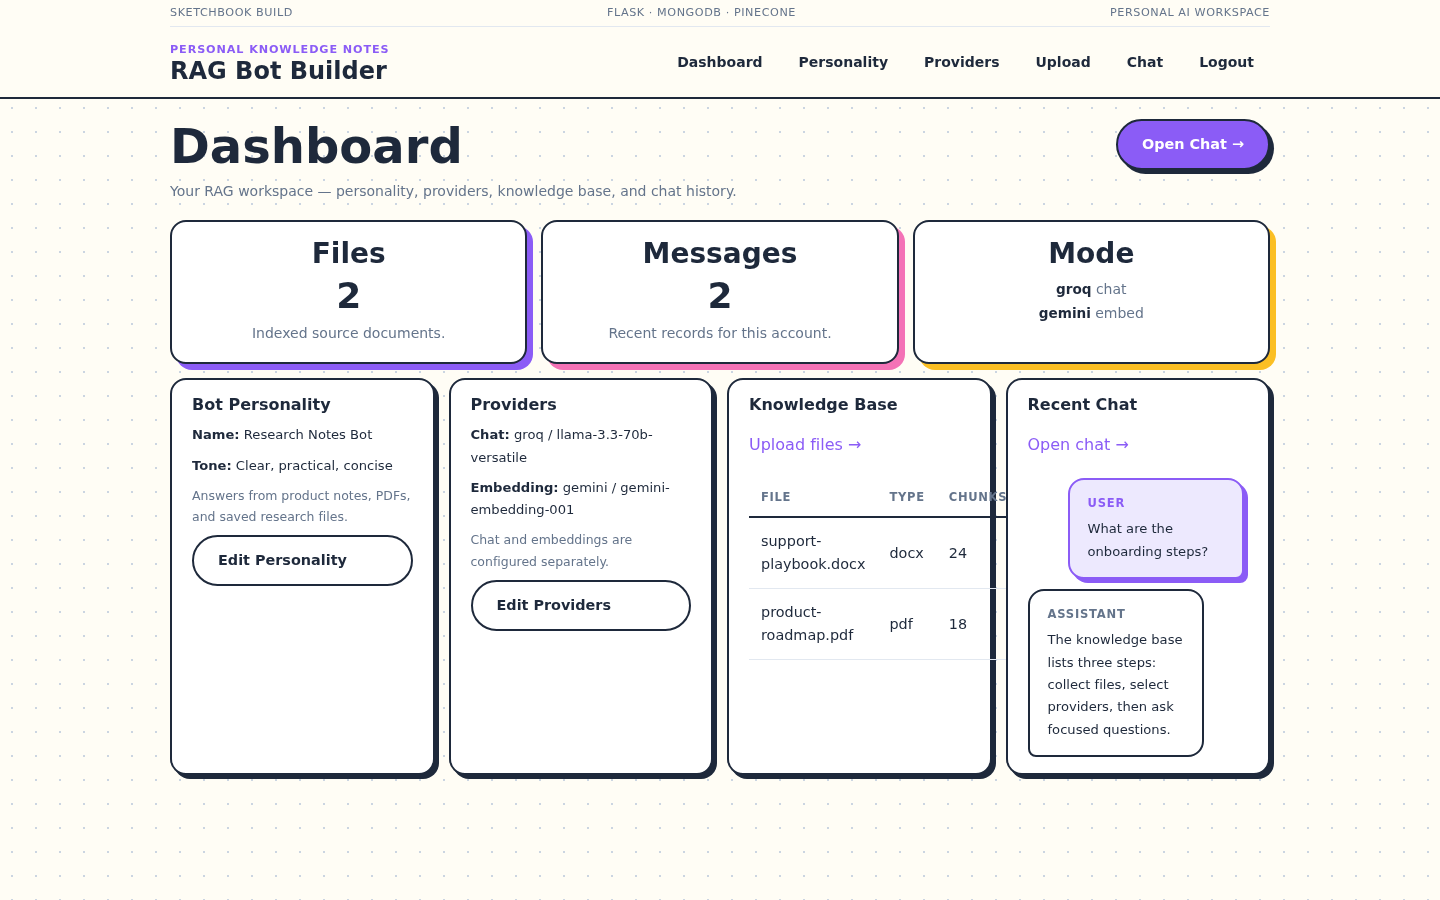
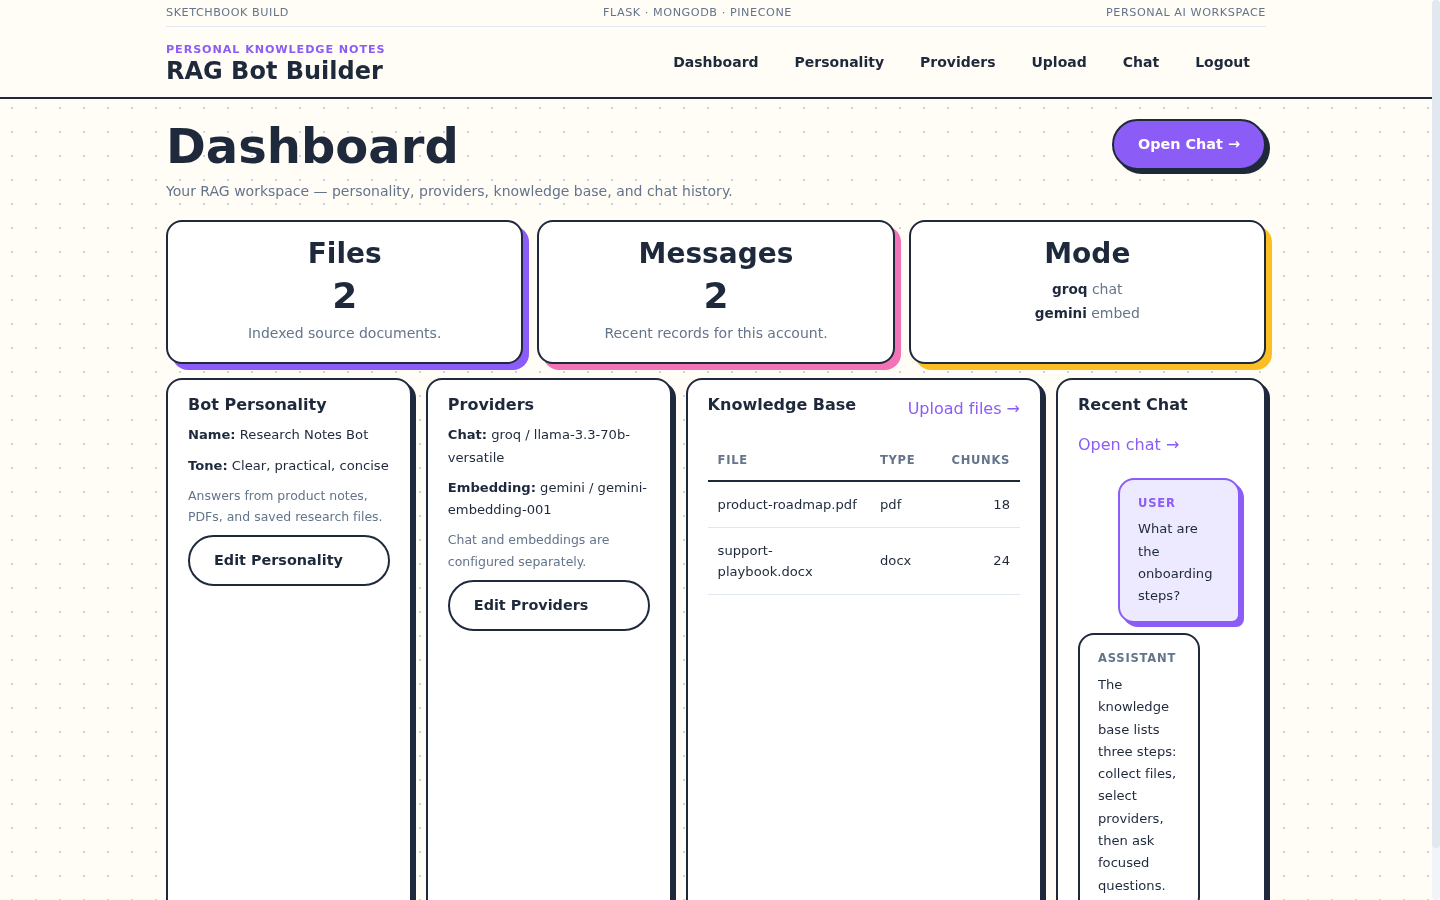
Fix dashboard knowledge base width

diff --git a/static/style.css b/static/style.css
@@ -483,7 +483,11 @@ tr:hover td { background: var(--muted-bg); }
 
 .dashboard-details {
   display: grid;
-  grid-template-columns: repeat(4, 1fr);
+  grid-template-columns:
+    minmax(220px, 1fr)
+    minmax(230px, 1fr)
+    minmax(340px, 1.45fr)
+    minmax(210px, 0.8fr);
   gap: 14px;
 }
 
@@ -499,8 +503,36 @@ tr:hover td { background: var(--muted-bg); }
 .detail-card p  { font-size: 0.82rem; }
 .detail-card .muted { font-size: 0.78rem; }
 
+.knowledge-card table {
+  table-layout: fixed;
+  font-size: 0.82rem;
+}
+
+.knowledge-card th,
+.knowledge-card td {
+  padding-inline: 10px;
+  overflow-wrap: anywhere;
+}
+
+.knowledge-card th:nth-child(1),
+.knowledge-card td:nth-child(1) {
+  width: 52%;
+}
+
+.knowledge-card th:nth-child(2),
+.knowledge-card td:nth-child(2) {
+  width: 22%;
+}
+
+.knowledge-card th:nth-child(3),
+.knowledge-card td:nth-child(3) {
+  width: 26%;
+  text-align: right;
+  white-space: nowrap;
+}
+
 @media (max-width: 900px) {
-  .dashboard-details { grid-template-columns: repeat(2, 1fr); }
+  .dashboard-details { grid-template-columns: repeat(2, minmax(0, 1fr)); }
 }
 
 /* ─── Chat ──────────────────────────────────────────────────────────────── */

diff --git a/templates/dashboard.html b/templates/dashboard.html
@@ -47,7 +47,7 @@
         <a class="button-link btn-secondary" href="{{ url_for('providers') }}">Edit Providers</a>
     </article>
 
-    <article class="card dashboard-card detail-card">
+    <article class="card dashboard-card detail-card knowledge-card">
         <div class="section-row compact-section-row">
             <h2>Knowledge Base</h2>
             <a href="{{ url_for('upload') }}">Upload files &rarr;</a>